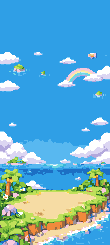
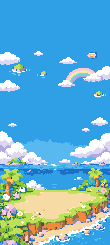
타이틀 8비트 톤 통일 v2: 팔레트 확정 후 칸별 최빈색 방식 + 한글 부제(시안 2) 도트화
- 평균 리샘플(색 번짐) 대신: 원본 해상도에서 제한 팔레트로 먼저 색 확정 → 도트 격자 칸마다 최빈색 선택
- 배경 110×245 · 영문 로고 86×51 · 한글 부제 72×16 도트, 고나와 같은 1도트=4px 격자
- 한글 부제: Higgsfield 오리지널 레터링 시안 2 (원본 art-src/title/subtitle-style2-original-transparent.png)
- 부제는 획이 촘촘해 윤곽 가중치 0.75로 속 공간 보존, 62도트(248px)는 판독 불가라 72도트(288px)로 결정
- 월드맵·고나 스프라이트·터치 진입은 변경 없음

Claude-Session: https://claude.ai/code/session_011LWBdZ2XMame63jCRHDxCu

diff --git a/src/components/Title.tsx b/src/components/Title.tsx
@@ -4,12 +4,14 @@ import { useEffect, useState } from 'react';
  * 타이틀 화면 (정적). 배경 · 로고 · 고나는 서로 독립된 레이어지만 '같은 도트 격자'를 씁니다.
  *  - 기준: 고나 원본 스프라이트(27×34) 1도트 = s CSS px (s = 4, 넓은 화면 5)
  *  - 배경(110×245 도트)·로고(86×51 도트)도 같은 s 배율 → 도트 크기 동일, 모든 위치는 s 의 배수로 맞춤(격자 어긋남 없음)
- *  - 배경: public/assets/title/title-bg-px.png / 로고: logo-px.png (투명) — 둘 다 원본(art-src/title)을 고나 도트 밀도로 재작업한 것
+ *  - 배경 title-bg-px.png / 로고 logo-px.png / 한글 부제 subtitle-px.png(투명) — 모두 원본(art-src/title)을 고나 도트 밀도로 재작업한 것
  */
 const BG_W = 110;
 const BG_H = 245;
 const LOGO_W = 86;
 const LOGO_H = 51;
+const SUB_W = 72;
+const SUB_H = 16;
 const GONA_W = 27;
 const GONA_H = 34;
 /** 배경 도트 좌표에서 고나가 서는 곳 (모래섬 위 · 발끝 기준) */
@@ -21,6 +23,7 @@ interface Layout {
   bgTop: number;
   logoLeft: number;
   logoTop: number;
+  subLeft: number;
   subTop: number;
   gonaLeft: number;
   gonaTop: number;
@@ -44,6 +47,7 @@ function layout(): Layout {
     bgTop,
     logoLeft: snap((vw - LOGO_W * s) / 2),
     logoTop,
+    subLeft: snap((vw - SUB_W * s) / 2),
     subTop: logoTop + (LOGO_H + 2) * s,
     gonaLeft: bgLeft + (GONA_FEET.x - Math.floor(GONA_W / 2)) * s,
     gonaTop: bgTop + (GONA_FEET.y - GONA_H) * s,
@@ -79,9 +83,7 @@ export default function Title({ onStart }: { onStart: () => void }) {
     <div className={`title${leaving ? ' leaving' : ''}`} onClick={start} role="button" tabIndex={0} aria-label="화면을 터치하면 시작합니다" onKeyDown={(e) => (e.key === 'Enter' || e.key === ' ') && start()} style={{ ['--u' as string]: px(L.s) }}>
       <img className="t-bg" src="./assets/title/title-bg-px.png" alt="" draggable={false} style={{ left: L.bgLeft, top: L.bgTop, width: BG_W * L.s, height: BG_H * L.s }} />
       <img className="t-logo" src="./assets/title/logo-px.png" alt="GONA GONE WILD!" draggable={false} style={{ left: L.logoLeft, top: L.logoTop, width: LOGO_W * L.s, height: LOGO_H * L.s }} />
-      <p className="t-sub" style={{ top: L.subTop }}>
-        고나가 떴고나!
-      </p>
+      <img className="t-subimg" src="./assets/title/subtitle-px.png" alt="고나가 떴고나!" draggable={false} style={{ left: L.subLeft, top: L.subTop, width: SUB_W * L.s, height: SUB_H * L.s }} />
       <img className="t-gona" src="./assets/gona.png" alt="고나" draggable={false} style={{ left: L.gonaLeft, top: L.gonaTop, width: GONA_W * L.s, height: GONA_H * L.s }} />
       <p className="t-tap">TAP ANYWHERE TO START</p>
     </div>

diff --git a/src/styles.css b/src/styles.css
@@ -165,14 +165,6 @@ button { font: inherit; color: inherit; cursor: pointer; }
 .title.leaving { animation: fadeout 0.2s steps(4) forwards; }
 @keyframes fadeout { to { opacity: 0; } }
 .title img { position: absolute; image-rendering: pixelated; user-select: none; -webkit-user-drag: none; pointer-events: none; }
-.t-sub {
-  position: absolute; left: 0; right: 0; margin: 0; text-align: center; line-height: 1; pointer-events: none;
-  font-size: calc(var(--u) * 11); font-weight: 700; color: #ffd84a; letter-spacing: 0;
-  /* 윤곽선·그림자도 도트 단위(1도트)로 — 부드러운 번짐 없음 */
-  text-shadow: calc(var(--u) * -1) 0 #3b1b5e, var(--u) 0 #3b1b5e, 0 calc(var(--u) * -1) #3b1b5e, 0 var(--u) #3b1b5e,
-    calc(var(--u) * -1) calc(var(--u) * -1) #3b1b5e, var(--u) calc(var(--u) * -1) #3b1b5e, calc(var(--u) * -1) var(--u) #3b1b5e, var(--u) var(--u) #3b1b5e,
-    0 calc(var(--u) * 2) #3b1b5e, var(--u) calc(var(--u) * 2) #3b1b5e, calc(var(--u) * -1) calc(var(--u) * 2) #3b1b5e;
-}
 .t-tap {
   position: absolute; left: 0; right: 0; margin: 0; text-align: center; line-height: 1; pointer-events: none;
   bottom: calc(env(safe-area-inset-bottom) + var(--u) * 5);

diff --git a/tools/build-title-pixel-assets.py b/tools/build-title-pixel-assets.py
@@ -1,30 +1,33 @@
 #!/usr/bin/env python3
 """
-타이틀 배경·로고를 '고나의 도트 밀도'로 다시 정리하는 재현 가능 변환 (이미지 생성 AI 미사용, 크레딧 없음).
+타이틀 배경 · 로고 · 한글 부제를 '고나의 도트 격자'(1도트 = 화면 4px)로 다시 만드는 재현 가능 변환.
+이미지 생성 AI(크레딧) 미사용. 원본은 art-src/title/ 에 그대로 보관.
 
-기준: 고나 스프라이트(public/assets/gona.png) 27×34 도트를 화면에서 4배 → 1도트 = 4 CSS px.
- 배경/로고도 같은 격자(1도트 = 4px)로 다시 만든다. CSS 의 image-rendering 만으로 해결하지 않고 원본 자체를 저해상도로 재작업.
-
- 파이프라인: 전처리(질감 병합) → 도트 격자 리샘플(BOX) → 큐레이션한 제한 팔레트로 스냅(디더 없음)
-            → 잡티(외톨이 도트) 제거 → 위쪽 잘린 구름 정리/하늘 연장
- 원본(생성물)은 art-src/title/ 에 그대로 보관.
+v2 방식 (색이 흐려지는 '평균 리샘플'을 쓰지 않음):
+  1) 원본 해상도에서 먼저 제한 팔레트(큐레이션)로 색을 확정  → 색이 섞이지 않은 깨끗한 색 영역
+  2) 도트 격자 칸마다 '가장 많이 차지하는 팔레트 색'을 선택  → 외곽선·형태가 또렷한 계단형 도트
+  3) 외톨이 도트 정리 (+ 배경: 위쪽 잘린 구름 정리/하늘 연장)
 
   pip install pillow numpy && python3 tools/build-title-pixel-assets.py
 """
 import os
 import numpy as np
-from PIL import Image, ImageFilter
+from PIL import Image
 
 ROOT = os.path.dirname(os.path.dirname(os.path.abspath(__file__)))
 SRC = os.path.join(ROOT, 'art-src/title')
 OUT = os.path.join(ROOT, 'public/assets/title')
 
-BG_W, BG_H = 110, 245          # 도트 단위 장면 크기 (×4 = 440×980 CSS px 까지 덮음)
-LOGO_W = 86                    # 로고 폭(도트) ×4 = 344px
+BG_W, BG_H = 110, 245     # 배경(도트) ×4 = 440×980 CSS px 까지 덮음
+LOGO_W = 86               # 영문 로고 폭(도트) ×4 = 344px
+SUB_W = 72                # 한글 부제 폭(도트) ×4 = 288px — 62도트(248px)는 고나와 같은 밀도에서 글자가 뭉쳐 읽히지 않아 72로 결정
+
+
+def hexes(*h):
+    return [tuple(int(x[i:i + 2], 16) for i in (1, 3, 5)) for x in h]
 
 
 def lab(rgb):
-    """sRGB(0-255) → CIE Lab (팔레트 최근접 탐색용)"""
     c = rgb.astype(np.float64) / 255
     c = np.where(c > 0.04045, ((c + 0.055) / 1.055) ** 2.4, c / 12.92)
     m = np.array([[0.4124, 0.3576, 0.1805], [0.2126, 0.7152, 0.0722], [0.0193, 0.1192, 0.9505]])
@@ -33,102 +36,110 @@ def lab(rgb):
     return np.stack([116 * f[..., 1] - 16, 500 * (f[..., 0] - f[..., 1]), 200 * (f[..., 1] - f[..., 2])], -1)
 
 
-def snap(img_rgb, palette):
-    p = np.array(palette, dtype=np.uint8)
-    d = ((lab(img_rgb)[:, :, None, :] - lab(p)[None, None, :, :]) ** 2).sum(-1)
-    return p[d.argmin(-1)]
-
-
-def despeckle(rgb, passes=1):
-    """4방향 이웃 중 같은 색이 하나도 없는 외톨이 도트를 가장 흔한 이웃색으로 교체"""
+def to_index(rgb, palette):
+    """각 픽셀을 가장 가까운 팔레트 번호로 (원본 해상도에서 먼저 색 확정)"""
+    pal_lab = lab(np.array(palette, dtype=np.uint8))
     h, w, _ = rgb.shape
-    out = rgb.copy()
+    out = np.empty((h, w), np.int16)
+    step = 128
+    for y in range(0, h, step):
+        L = lab(rgb[y:y + step])
+        d = ((L[:, :, None, :] - pal_lab[None, None, :, :]) ** 2).sum(-1)
+        out[y:y + step] = d.argmin(-1)
+    return out
+
+
+def cell_mode(idx, gw, gh, n_colors, weights=None):
+    """원본(idx)을 gw×gh 칸으로 나누어 칸마다 가장 많은 번호를 선택"""
+    h, w = idx.shape
+    xs = np.linspace(0, w, gw + 1).astype(int)
+    ys = np.linspace(0, h, gh + 1).astype(int)
+    out = np.zeros((gh, gw), np.int16)
+    for j in range(gh):
+        for i in range(gw):
+            blk = idx[ys[j]:ys[j + 1], xs[i]:xs[i + 1]].ravel()
+            cnt = np.bincount(blk, minlength=n_colors).astype(np.float64)
+            if weights is not None:
+                cnt = cnt * weights          # 가중치: 외곽선이 글자 속 빈 공간을 삼키지 않게
+            out[j, i] = cnt.argmax()
+    return out
+
+
+def despeckle(idx, passes=1, protect=None):
+    """4방향 이웃 중 같은 번호가 없는 외톨이 도트를 가장 흔한 이웃으로 교체"""
+    h, w = idx.shape
+    out = idx.copy()
     for _ in range(passes):
         src = out.copy()
         for y in range(h):
             for x in range(w):
                 c = src[y, x]
+                if protect is not None and c == protect:
+                    continue
                 nb = [src[yy, xx] for yy, xx in ((y - 1, x), (y + 1, x), (y, x - 1), (y, x + 1)) if 0 <= yy < h and 0 <= xx < w]
-                if not any((n == c).all() for n in nb):
-                    vals, cnt = np.unique(np.array(nb), axis=0, return_counts=True)
-                    out[y, x] = vals[cnt.argmax()]
+                if c not in nb:
+                    out[y, x] = np.bincount(nb).argmax()
     return out
 
 
-def hexes(*h):
-    return [tuple(int(x[i:i + 2], 16) for i in (1, 3, 5)) for x in h]
-
-
-# 큐레이션 팔레트: 고나(연두 옷·살구색 얼굴·갈색 윤곽)와 어울리는 밝지만 살짝 바랜 8비트풍 색
-PALETTE = hexes(
-    # 하늘 · 바다
-    '#2f9fe6', '#58b8f0', '#8fd4f7', '#1c6fc4', '#35b6d8', '#6fd6e4', '#c8f0f4',
-    # 구름 · 무지개
-    '#ffffff', '#dcd6f2', '#b3a8dc', '#f6c9dd', '#fbe9a8',
-    # 모래 · 절벽
-    '#f6dca4', '#e7c07c', '#c9965a', '#9c6a40', '#6d4430',
-    # 풀 · 야자 · 숲
-    '#bfe05a', '#8cc43e', '#5a9e34', '#2f6e2c', '#1f4a24',
-    # 꽃 · 열매 · 돌
-    '#ffd23f', '#f08a3c', '#9a8f99', '#5b4a52',
-    # 가장 어두운 윤곽 (고나의 갈색 윤곽과 같은 계열)
-    '#3a2219',
+# ── 배경 팔레트: 고나(연두 옷·살구색·갈색 윤곽)와 어울리는 밝지만 살짝 바랜 색
+BG_PAL = hexes(
+    '#2f9fe6', '#58b8f0', '#8fd4f7', '#1c6fc4', '#35b6d8', '#6fd6e4', '#c8f0f4',          # 하늘 · 바다
+    '#ffffff', '#dcd6f2', '#b3a8dc', '#f6c9dd', '#fbe9a8',                                # 구름 · 무지개
+    '#f6dca4', '#e7c07c', '#c9965a', '#9c6a40', '#6d4430',                                # 모래 · 절벽
+    '#bfe05a', '#8cc43e', '#5a9e34', '#2f6e2c', '#1f4a24',                                # 풀 · 야자
+    '#ffd23f', '#f08a3c', '#9a8f99', '#5b4a52', '#3a2219',                                # 꽃 · 돌 · 윤곽
 )
+# ── 글자(로고·부제) 팔레트: 보라 윤곽 2 + 노랑 3 + 주황 2 (+ 투명)
+TXT_PAL = hexes('#3b1b5e', '#5a2d82', '#ffc21a', '#ffd84a', '#ff9a1c', '#e8741a', '#fff1b8')
 
 
 def build_bg():
-    im = Image.open(os.path.join(SRC, 'title-bg-original-752x1344.png')).convert('RGB')
-    im = im.filter(ImageFilter.ModeFilter(7))                       # 꽃잎·잎맥 같은 잔 질감을 먼저 병합
-    comp_h = round(im.height * BG_W / im.width)                      # 구도 그대로 폭 110도트
-    comp = np.array(im.resize((BG_W, comp_h), Image.BOX))
-    comp = snap(comp, PALETTE)
-    comp = despeckle(comp, 2)
-    # 위쪽에 하늘 연장 (키 큰 폰용): 맨 윗줄의 가장 흔한 하늘색 + 위에서 잘린 구름은 하늘색으로 정리
-    sky = np.array(hexes('#2f9fe6')[0], dtype=np.uint8)
-    top_rows = 14
-    light = (comp[:top_rows].astype(int).sum(-1) > 560)             # 구름(밝은 색)
-    for y in range(top_rows):
-        for x in range(BG_W):
-            if light[y, x] and (y < 3 or light[y - 1, x] if y else True):
-                pass
+    im = np.array(Image.open(os.path.join(SRC, 'title-bg-original-752x1344.png')).convert('RGB'))
+    idx_hi = to_index(im, BG_PAL)
+    comp_h = round(im.shape[0] * BG_W / im.shape[1])
+    idx = cell_mode(idx_hi, BG_W, comp_h, len(BG_PAL))
+    idx = despeckle(idx, 1)
+    rgb = np.array(BG_PAL, dtype=np.uint8)[idx]
+    sky = np.array(BG_PAL[0], dtype=np.uint8)
     canvas = np.tile(sky, (BG_H, BG_W, 1))
     off = BG_H - comp_h
-    canvas[off:] = comp
-    # 장면 맨 위에서 잘려 있는 구름만 하늘색으로 지움 (위에서부터 이어지는 밝은 덩어리)
+    canvas[off:] = rgb
+    # 장면 맨 위에서 잘린 구름은 하늘색으로 정리 (키 큰 폰에서 이어붙인 경계가 보이지 않게)
+    bright = lambda c: int(c[0]) + int(c[1]) + int(c[2]) > 560
     seen = np.zeros((BG_H, BG_W), bool)
-    stack = [(off, x) for x in range(BG_W) if (canvas[off, x].astype(int).sum() > 560)]
+    stack = [(off, x) for x in range(BG_W) if bright(canvas[off, x])]
     while stack:
         y, x = stack.pop()
-        if y < off or y >= BG_H or x < 0 or x >= BG_W or seen[y, x] or canvas[y, x].astype(int).sum() <= 560:
+        if y < off or y >= BG_H or x < 0 or x >= BG_W or seen[y, x] or not bright(canvas[y, x]):
             continue
         seen[y, x] = True
         canvas[y, x] = sky
         stack += [(y + 1, x), (y - 1, x), (y, x + 1), (y, x - 1)]
     Image.fromarray(canvas, 'RGB').save(os.path.join(OUT, 'title-bg-px.png'))
-    print('title-bg-px.png', canvas.shape[1], 'x', canvas.shape[0], '색', len({tuple(c) for c in canvas.reshape(-1, 3)}))
-    return off
+    print('title-bg-px.png', BG_W, 'x', BG_H, '색', len({tuple(c) for c in canvas.reshape(-1, 3)}))
 
 
-def build_logo():
-    lg = Image.open(os.path.join(SRC, 'logo-rev2-original-transparent.png')).convert('RGBA')
-    lh = round(lg.height * LOGO_W / lg.width)
-    # 알파는 premultiplied 로 줄여 가장자리 색 번짐 방지
-    a = np.array(lg).astype(np.float64)
-    al = a[..., 3:4] / 255
-    pre = np.concatenate([a[..., :3] * al, a[..., 3:4]], -1)
-    small = Image.fromarray(pre.astype(np.uint8), 'RGBA').resize((LOGO_W, lh), Image.BOX)
-    s = np.array(small).astype(np.float64)
-    alpha = s[..., 3:4] / 255
-    rgb = np.where(alpha > 0, s[..., :3] / np.maximum(alpha, 1e-6), 0).clip(0, 255).astype(np.uint8)
-    mask = (alpha[..., 0] >= 0.42)   # 윤곽선이 가늘어지지 않게 살짝 낮춤
-    LOGO_PAL = hexes('#3b1b5e', '#5a2d82', '#ffc21a', '#ffd84a', '#ff9a1c', '#e8741a', '#fff1b8')   # 분홍·흰 잡점이 생기지 않도록 보라 2 + 노랑 3 + 주황 2
-    sn = snap(rgb, LOGO_PAL)
-    sn = despeckle(sn, 2)
-    out = np.dstack([sn, np.where(mask, 255, 0).astype(np.uint8)])
-    Image.fromarray(out, 'RGBA').save(os.path.join(OUT, 'logo-px.png'))
-    print('logo-px.png', LOGO_W, 'x', lh)
+def build_text(src_name, out_name, width, outline_w=1.0, out_dir=None):
+    im = Image.open(os.path.join(SRC, src_name)).convert('RGBA')
+    a = np.array(im)
+    alpha = a[..., 3] >= 110                      # 윤곽선이 가늘어지지 않게 낮춘 기준
+    idx_hi = to_index(a[..., :3], TXT_PAL)
+    n = len(TXT_PAL)
+    idx_hi = np.where(alpha, idx_hi, n)           # n = 투명
+    gh = round(im.height * width / im.width)
+    w = np.ones(n + 1)
+    w[0] = w[1] = outline_w                      # 보라 윤곽 번호(0,1)의 영향력
+    idx = cell_mode(idx_hi, width, gh, n + 1, w)
+    idx = despeckle(idx, 1, protect=n)
+    pal = np.array(TXT_PAL + [(0, 0, 0)], dtype=np.uint8)
+    rgb = pal[idx]
+    out = np.dstack([rgb, np.where(idx == n, 0, 255).astype(np.uint8)])
+    Image.fromarray(out, 'RGBA').save(os.path.join(out_dir or OUT, out_name))
+    print(out_name, width, 'x', gh)
 
 
 if __name__ == '__main__':
-    print('bg 위쪽 연장 시작 행:', build_bg())
-    build_logo()
+    build_bg()
+    build_text('logo-rev2-original-transparent.png', 'logo-px.png', LOGO_W)
+    build_text('subtitle-style2-original-transparent.png', 'subtitle-px.png', SUB_W, outline_w=0.75)   # 획이 촘촘한 한글은 윤곽 영향력을 낮춰 속 공간 보존
